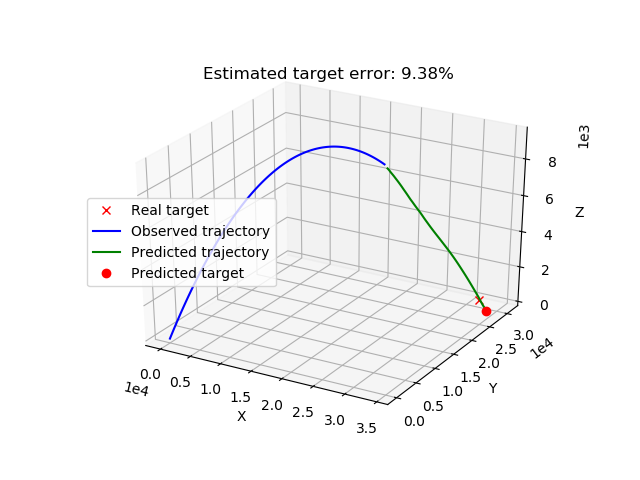
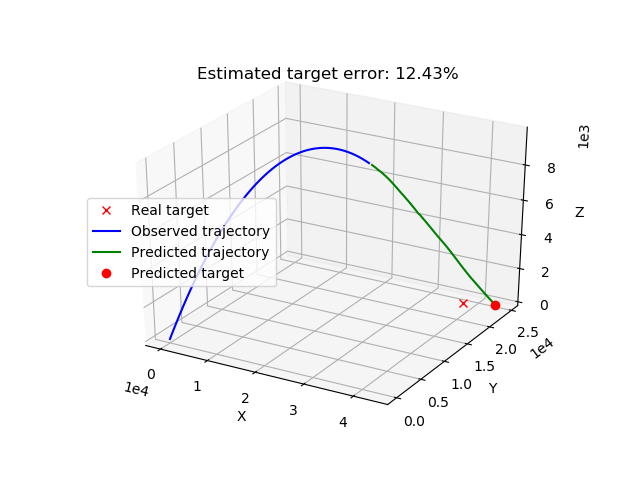
submit 2

diff --git a/trajectory_functions.py b/trajectory_functions.py
@@ -125,8 +125,12 @@ def my_plot(Itraj, Ttraj, predicted_traj, predicted_hit_pos, n_time_steps):
     ax.set_xlabel('X')
     ax.set_ylabel('Y')
     ax.set_zlabel('Z')
-    miss_distance = np.sqrt((Ttraj[0, 0] - predicted_hit_pos[0])**2 + (Ttraj[0, 1] - predicted_hit_pos[1])**2)
-    target_distance = np.sqrt(Ttraj[0, 0]**2 + Ttraj[0, 1]**2)
+    # miss_distance = np.sqrt((Ttraj[0, 0] - predicted_hit_pos[0])**2 + (Ttraj[0, 1] - predicted_hit_pos[1])**2)
+    # target_distance = np.sqrt(Ttraj[0, 0]**2 + Ttraj[0, 1]**2)
+
+    miss_distance = np.sqrt(np.sum((Ttraj[0, 0:2] - predicted_hit_pos[0:2]) ** 2 ))
+    target_distance = np.sqrt(np.sum(Ttraj[0, 0:2] ** 2))
+
     error = miss_distance / target_distance
     ax.set_title("Estimated target error: {:.2f}%".format(error*100))
     ax.legend(loc='center left', bbox_to_anchor=(0, 0.5))

diff --git a/Main.py b/Main.py
@@ -58,8 +58,10 @@ def test_and_track(inout_size, Itraj, Ttraj):
                 predicted_hit_pos = predict[i[0], :]
         else:
             Itraj = np.vstack((Itraj, predict[0, :]))
-    error = np.mean(np.abs((Ttraj[0, 1:2]-predicted_hit_pos[0:2])/Ttraj[0, 1:2])*100)
-    print("Estimated target error: {:.2f}%".format(error))
+    miss_distance = np.sqrt(np.sum((Ttraj[0, 0:2] - predicted_hit_pos[0:2]) ** 2))
+    target_distance = np.sqrt(np.sum(Ttraj[0, 0:2] ** 2))
+    error = miss_distance / target_distance
+    print("Estimated target error: {:.2f}%".format(error*100))
     return Itraj, predicted_hit_pos
 
 
